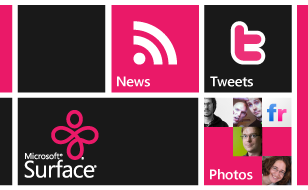
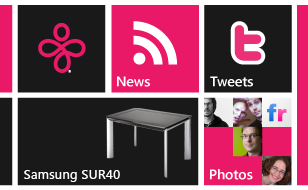
branding changes from MS

Changed region(s): [[0.0584, 0.5526, 0.6429, 0.9737], [0.1169, 0.1053, 0.2922, 0.3947]]

diff --git a/SocialStream/Properties/Settings.Designer.cs b/SocialStream/Properties/Settings.Designer.cs
@@ -1,7 +1,7 @@
 //------------------------------------------------------------------------------
 // <auto-generated>
 //     This code was generated by a tool.
-//     Runtime Version:4.0.30319.530
+//     Runtime Version:4.0.30319.544
 //
 //     Changes to this file may cause incorrect behavior and will be lost if
 //     the code is regenerated.
@@ -20,15 +20,6 @@ namespace SocialStream.Properties {
         public static Settings Default {
             get {
                 return defaultInstance;
-            }
-        }
-        
-        [global::System.Configuration.ApplicationScopedSettingAttribute()]
-        [global::System.Diagnostics.DebuggerNonUserCodeAttribute()]
-        [global::System.Configuration.DefaultSettingValueAttribute("#FFEA1F68")]
-        public global::System.Windows.Media.Color ThemeColor {
-            get {
-                return ((global::System.Windows.Media.Color)(this["ThemeColor"]));
             }
         }
         
@@ -59,33 +50,6 @@ namespace SocialStream.Properties {
             }
         }
         
-        [global::System.Configuration.ApplicationScopedSettingAttribute()]
-        [global::System.Diagnostics.DebuggerNonUserCodeAttribute()]
-        [global::System.Configuration.DefaultSettingValueAttribute("microsoft,microsoft surface,@surface")]
-        public string TwitterQuery {
-            get {
-                return ((string)(this["TwitterQuery"]));
-            }
-        }
-        
-        [global::System.Configuration.ApplicationScopedSettingAttribute()]
-        [global::System.Diagnostics.DebuggerNonUserCodeAttribute()]
-        [global::System.Configuration.DefaultSettingValueAttribute("microsoft surface")]
-        public string FlickrQuery {
-            get {
-                return ((string)(this["FlickrQuery"]));
-            }
-        }
-        
-        [global::System.Configuration.ApplicationScopedSettingAttribute()]
-        [global::System.Diagnostics.DebuggerNonUserCodeAttribute()]
-        [global::System.Configuration.DefaultSettingValueAttribute("http://blogs.msdn.com/b/surface/rss.aspx")]
-        public string NewsQuery {
-            get {
-                return ((string)(this["NewsQuery"]));
-            }
-        }
-        
         [global::System.Configuration.UserScopedSettingAttribute()]
         [global::System.Diagnostics.DebuggerNonUserCodeAttribute()]
         [global::System.Configuration.DefaultSettingValueAttribute("True")]
@@ -104,15 +68,6 @@ namespace SocialStream.Properties {
         public global::System.TimeSpan ItemTimeoutBack {
             get {
                 return ((global::System.TimeSpan)(this["ItemTimeoutBack"]));
-            }
-        }
-        
-        [global::System.Configuration.ApplicationScopedSettingAttribute()]
-        [global::System.Diagnostics.DebuggerNonUserCodeAttribute()]
-        [global::System.Configuration.DefaultSettingValueAttribute("2010-01-01")]
-        public global::System.DateTime MinFeedItemDate {
-            get {
-                return ((global::System.DateTime)(this["MinFeedItemDate"]));
             }
         }
         
@@ -283,24 +238,6 @@ namespace SocialStream.Properties {
         
         [global::System.Configuration.ApplicationScopedSettingAttribute()]
         [global::System.Diagnostics.DebuggerNonUserCodeAttribute()]
-        [global::System.Configuration.DefaultSettingValueAttribute("0.9")]
-        public double TweetOpacity {
-            get {
-                return ((double)(this["TweetOpacity"]));
-            }
-        }
-        
-        [global::System.Configuration.ApplicationScopedSettingAttribute()]
-        [global::System.Diagnostics.DebuggerNonUserCodeAttribute()]
-        [global::System.Configuration.DefaultSettingValueAttribute("0.9")]
-        public double NewsOpacity {
-            get {
-                return ((double)(this["NewsOpacity"]));
-            }
-        }
-        
-        [global::System.Configuration.ApplicationScopedSettingAttribute()]
-        [global::System.Diagnostics.DebuggerNonUserCodeAttribute()]
         [global::System.Configuration.DefaultSettingValueAttribute("00:05:00")]
         public global::System.TimeSpan AdminTimeoutDelay {
             get {
@@ -319,16 +256,7 @@ namespace SocialStream.Properties {
         
         [global::System.Configuration.ApplicationScopedSettingAttribute()]
         [global::System.Diagnostics.DebuggerNonUserCodeAttribute()]
-        [global::System.Configuration.DefaultSettingValueAttribute("")]
-        public string TwitterUsername {
-            get {
-                return ((string)(this["TwitterUsername"]));
-            }
-        }
-        
-        [global::System.Configuration.ApplicationScopedSettingAttribute()]
-        [global::System.Diagnostics.DebuggerNonUserCodeAttribute()]
-        [global::System.Configuration.DefaultSettingValueAttribute("")]
+        [global::System.Configuration.DefaultSettingValueAttribute("260dcf58afc10cfc52b11a8c94a1a03f")]
         public string FlickrApiKey {
             get {
                 return ((string)(this["FlickrApiKey"]));
@@ -337,7 +265,7 @@ namespace SocialStream.Properties {
         
         [global::System.Configuration.ApplicationScopedSettingAttribute()]
         [global::System.Diagnostics.DebuggerNonUserCodeAttribute()]
-        [global::System.Configuration.DefaultSettingValueAttribute("")]
+        [global::System.Configuration.DefaultSettingValueAttribute("29c3af2f-ff8b-4ffa-b3c5-6ab8a4d24d78")]
         public string MicrosoftTagApiKey {
             get {
                 return ((string)(this["MicrosoftTagApiKey"]));
@@ -353,15 +281,6 @@ namespace SocialStream.Properties {
             }
         }
         
-        [global::System.Configuration.ApplicationScopedSettingAttribute()]
-        [global::System.Diagnostics.DebuggerNonUserCodeAttribute()]
-        [global::System.Configuration.DefaultSettingValueAttribute("")]
-        public string TwitterPassword {
-            get {
-                return ((string)(this["TwitterPassword"]));
-            }
-        }
-        
         [global::System.Configuration.UserScopedSettingAttribute()]
         [global::System.Diagnostics.DebuggerNonUserCodeAttribute()]
         [global::System.Configuration.DefaultSettingValueAttribute("-1")]
@@ -371,6 +290,87 @@ namespace SocialStream.Properties {
             }
             set {
                 this["AutoScrollDirection"] = value;
+            }
+        }
+        
+        [global::System.Configuration.ApplicationScopedSettingAttribute()]
+        [global::System.Diagnostics.DebuggerNonUserCodeAttribute()]
+        [global::System.Configuration.DefaultSettingValueAttribute("#FF555555")]
+        public global::System.Windows.Media.Color ThemeColor {
+            get {
+                return ((global::System.Windows.Media.Color)(this["ThemeColor"]));
+            }
+        }
+        
+        [global::System.Configuration.ApplicationScopedSettingAttribute()]
+        [global::System.Diagnostics.DebuggerNonUserCodeAttribute()]
+        [global::System.Configuration.DefaultSettingValueAttribute("microsoft,microsoft pixelsense,@mspixelsense,SUR40")]
+        public string TwitterQuery {
+            get {
+                return ((string)(this["TwitterQuery"]));
+            }
+        }
+        
+        [global::System.Configuration.ApplicationScopedSettingAttribute()]
+        [global::System.Diagnostics.DebuggerNonUserCodeAttribute()]
+        [global::System.Configuration.DefaultSettingValueAttribute("microsoft pixelsense,pixelsense,SUR40")]
+        public string FlickrQuery {
+            get {
+                return ((string)(this["FlickrQuery"]));
+            }
+        }
+        
+        [global::System.Configuration.ApplicationScopedSettingAttribute()]
+        [global::System.Diagnostics.DebuggerNonUserCodeAttribute()]
+        [global::System.Configuration.DefaultSettingValueAttribute("http://blogs.msdn.com/b/pixelsense/rss.aspx")]
+        public string NewsQuery {
+            get {
+                return ((string)(this["NewsQuery"]));
+            }
+        }
+        
+        [global::System.Configuration.ApplicationScopedSettingAttribute()]
+        [global::System.Diagnostics.DebuggerNonUserCodeAttribute()]
+        [global::System.Configuration.DefaultSettingValueAttribute("2012-06-19")]
+        public global::System.DateTime MinFeedItemDate {
+            get {
+                return ((global::System.DateTime)(this["MinFeedItemDate"]));
+            }
+        }
+        
+        [global::System.Configuration.ApplicationScopedSettingAttribute()]
+        [global::System.Diagnostics.DebuggerNonUserCodeAttribute()]
+        [global::System.Configuration.DefaultSettingValueAttribute("0.65")]
+        public double TweetOpacity {
+            get {
+                return ((double)(this["TweetOpacity"]));
+            }
+        }
+        
+        [global::System.Configuration.ApplicationScopedSettingAttribute()]
+        [global::System.Diagnostics.DebuggerNonUserCodeAttribute()]
+        [global::System.Configuration.DefaultSettingValueAttribute("0.65")]
+        public double NewsOpacity {
+            get {
+                return ((double)(this["NewsOpacity"]));
+            }
+        }
+        
+        [global::System.Configuration.ApplicationScopedSettingAttribute()]
+        [global::System.Diagnostics.DebuggerNonUserCodeAttribute()]
+        [global::System.Configuration.DefaultSettingValueAttribute("")]
+        public string TwitterUsername {
+            get {
+                return ((string)(this["TwitterUsername"]));
+            }
+        }
+        
+        [global::System.Configuration.ApplicationScopedSettingAttribute()]
+        [global::System.Diagnostics.DebuggerNonUserCodeAttribute()]
+        [global::System.Configuration.DefaultSettingValueAttribute("")]
+        public string TwitterPassword {
+            get {
+                return ((string)(this["TwitterPassword"]));
             }
         }
     }

diff --git a/FeedProcessor/Processor.cs b/FeedProcessor/Processor.cs
@@ -1120,14 +1120,14 @@ namespace FeedProcessor
                         FeedItem previousItem = (from i in feedItemList where i.Date > itemDate select i).LastOrDefault();
                         if (previousItem != null)
                         {
-                            newItemIndex = feedItemList.IndexOf(previousItem);
+                            newItemIndex = feedItemList.IndexOf(previousItem) + 1;
                         }
                     }
 
                     if (_itemIndexes.ContainsKey(feedItem.ContentType))
                     {
                         // Insert new items so they come up next in the stream.
-                        newItemIndex = Math.Max(newItemIndex, _itemIndexes[feedItem.ContentType]);
+                        //newItemIndex = Math.Max(newItemIndex, _itemIndexes[feedItem.ContentType]);
                     }
 
                     newItemIndex = Math.Min(newItemIndex, feedItemList.Count);

diff --git a/SocialStream.ConfigTool/Properties/AssemblyInfo.cs b/SocialStream.ConfigTool/Properties/AssemblyInfo.cs
@@ -18,5 +18,5 @@ using System.Windows;
 [assembly: AssemblyCulture("")]
 [assembly: ComVisible(false)]
 [assembly: ThemeInfo(ResourceDictionaryLocation.None, ResourceDictionaryLocation.SourceAssembly)]
-[assembly: AssemblyVersion("1.0.0.0")]
-[assembly: AssemblyFileVersion("1.0.0.0")]
+[assembly: AssemblyVersion("2.1.622.0")]
+[assembly: AssemblyFileVersion("2.1.622.0")]

diff --git a/SocialStream/Properties/AssemblyInfo.cs b/SocialStream/Properties/AssemblyInfo.cs
@@ -14,5 +14,5 @@ using System.Windows;
 [assembly: AssemblyCulture("")]
 [assembly: ComVisible(false)]
 [assembly: ThemeInfo(ResourceDictionaryLocation.None, ResourceDictionaryLocation.SourceAssembly)]
-[assembly: AssemblyVersion("2.0.0.0")]
-[assembly: AssemblyFileVersion("2.0.0.0")]
+[assembly: AssemblyVersion("2.1.622.0")]
+[assembly: AssemblyFileVersion("2.1.622.0")]

diff --git a/FeedProcessor/Net/AsyncWebRequest.cs b/FeedProcessor/Net/AsyncWebRequest.cs
@@ -70,9 +70,6 @@ namespace FeedProcessor.Net
             }
             catch
             {
-#if DEBUG
-                throw;
-#endif
                 Result(this, new AsyncWebResultEventArgs(null, HttpStatusCode.ServiceUnavailable));
             }
         }
